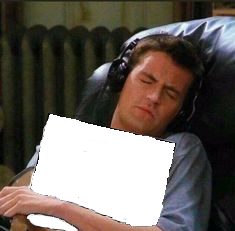
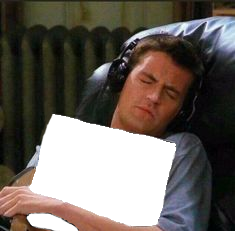
More chandler fixes!

diff --git a/components/layout.css b/components/layout.css
@@ -50,10 +50,10 @@
 
 .albumCover {
   z-index: 0;
-  top: 54%;
-  left: 18.5%;
+  top: 55%;
+  left: 21%;
   position: absolute;
-  height: 50%;
+  height: 51%;
   width: 48%;
 }
 
